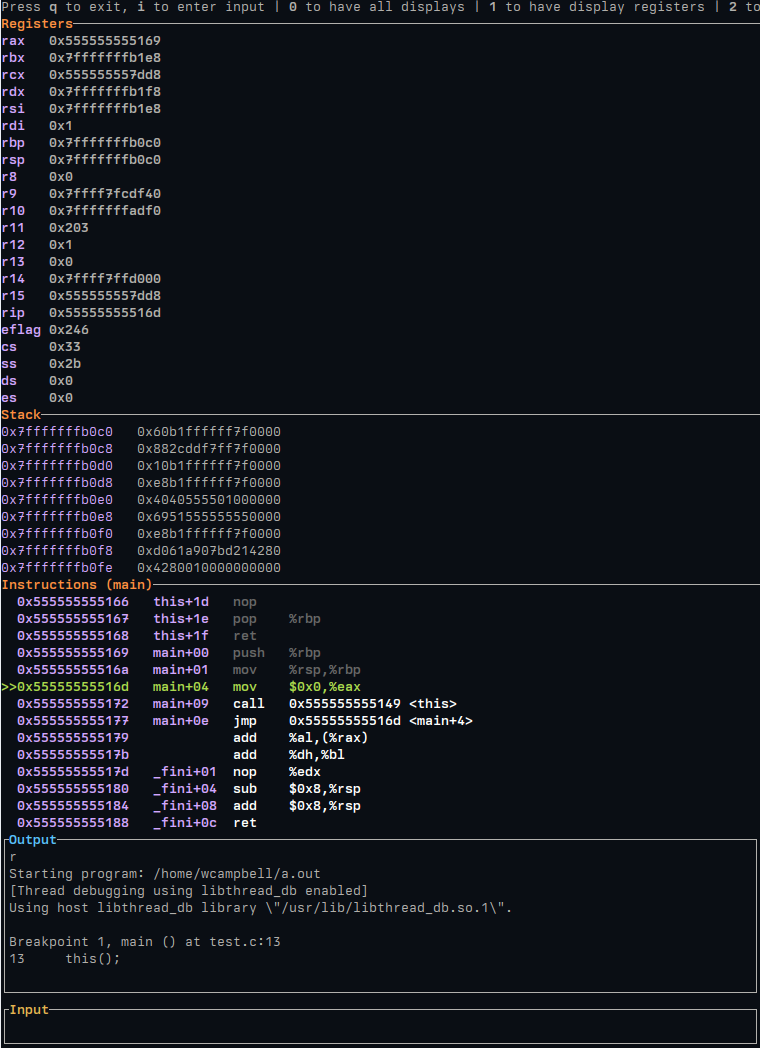
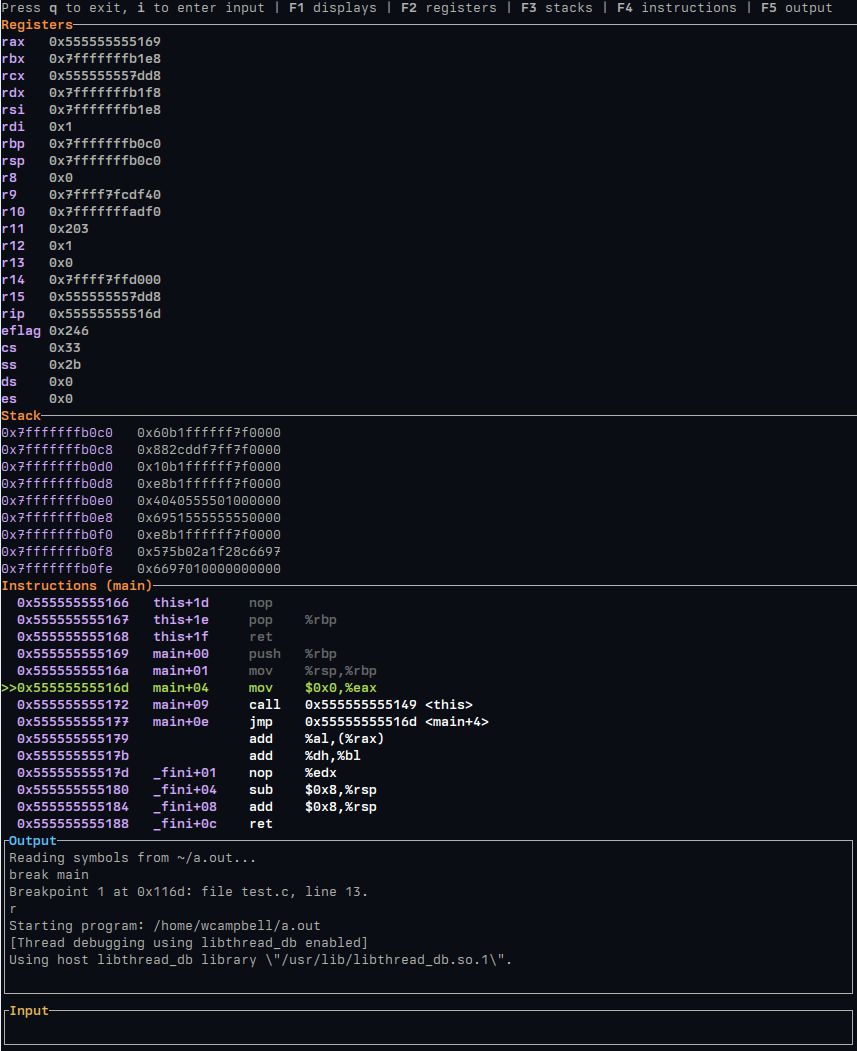
Output Improvements
* Add output page, all output is now cached
* cleanup tabs, now they use functions keys and smaller description text

diff --git a/src/main.rs b/src/main.rs
@@ -12,7 +12,6 @@ use env_logger::{Builder, Env};
 use log::debug;
 use ratatui::layout::{Constraint, Layout};
 use ratatui::prelude::*;
-use ratatui::style::Styled;
 use ratatui::widgets::block::Title;
 use ratatui::widgets::{Cell, Row, Table, TableState};
 use ratatui::{
@@ -25,13 +24,13 @@ use ratatui::{
 };
 use tui_input::backend::crossterm::EventHandler;
 use tui_input::Input;
-use Constraint::{Fill, Length, Max, Min};
+use Constraint::{Fill, Length, Min};
 
 mod mi;
 use mi::{
-    data_disassemble, data_read_memory_bytes, data_read_sp_bytes, join_registers,
-    parse_asm_insns_values, parse_key_value_pairs, parse_register_names_values,
-    parse_register_values, read_pc_value, Asm, MIResponse, Register,
+    data_disassemble, data_read_sp_bytes, join_registers, parse_asm_insns_values,
+    parse_key_value_pairs, parse_register_names_values, parse_register_values, read_pc_value, Asm,
+    MIResponse, Register,
 };
 
 enum InputMode {
@@ -100,6 +99,7 @@ enum Mode {
     OnlyRegister,
     OnlyStack,
     OnlyInstructions,
+    OnlyOutput,
 }
 
 struct App {
@@ -108,7 +108,7 @@ struct App {
     input_mode: InputMode,
     messages: LimitedBuffer<String>,
     current_pc: Arc<Mutex<u64>>, // TODO: replace with AtomicU64?
-    output: Arc<Mutex<LimitedBuffer<String>>>,
+    output: Arc<Mutex<Vec<String>>>,
     gdb_stdin: Arc<Mutex<dyn Write + Send>>,
     register_names: Arc<Mutex<Vec<String>>>,
     registers: Arc<Mutex<Vec<(String, Option<Register>)>>>,
@@ -161,7 +161,7 @@ impl App {
             input_mode: InputMode::Normal,
             messages: LimitedBuffer::new(10),
             current_pc: Arc::new(Mutex::new(0)),
-            output: Arc::new(Mutex::new(LimitedBuffer::new(SAVED_OUTPUT - 3))),
+            output: Arc::new(Mutex::new(Vec::new())),
             register_names: Arc::new(Mutex::new(vec![])),
             gdb_stdin,
             registers: Arc::new(Mutex::new(vec![])),
@@ -244,7 +244,7 @@ fn gdb_interact(
     stack_arc: Arc<Mutex<HashMap<u64, u64>>>,
     asm_arc: Arc<Mutex<Vec<Asm>>>,
     gdb_stdin_arc: Arc<Mutex<dyn Write + Send>>,
-    output_arc: Arc<Mutex<LimitedBuffer<String>>>,
+    output_arc: Arc<Mutex<Vec<String>>>,
 ) {
     let mut next_write = vec![String::new()];
     for line in gdb_stdout.lines() {
@@ -382,17 +382,20 @@ fn run_app<B: Backend>(terminal: &mut Terminal<B>, app: &mut App) -> io::Result<
                     (InputMode::Normal, KeyCode::Char('q')) => {
                         return Ok(());
                     }
-                    (InputMode::Normal, KeyCode::Char('0')) => {
+                    (InputMode::Normal, KeyCode::F(1)) => {
                         app.mode = Mode::All;
                     }
-                    (InputMode::Normal, KeyCode::Char('1')) => {
+                    (InputMode::Normal, KeyCode::F(2)) => {
                         app.mode = Mode::OnlyRegister;
                     }
-                    (InputMode::Normal, KeyCode::Char('2')) => {
+                    (InputMode::Normal, KeyCode::F(3)) => {
                         app.mode = Mode::OnlyStack;
                     }
-                    (InputMode::Normal, KeyCode::Char('3')) => {
+                    (InputMode::Normal, KeyCode::F(4)) => {
                         app.mode = Mode::OnlyInstructions;
+                    }
+                    (InputMode::Normal, KeyCode::F(5)) => {
+                        app.mode = Mode::OnlyOutput;
                     }
                     (InputMode::Editing, KeyCode::Esc) => {
                         app.input_mode = InputMode::Normal;
@@ -475,6 +478,20 @@ fn update_from_previous_input(app: &mut App) {
 fn ui(f: &mut Frame, app: &App) {
     // TODO: register size should depend on arch
     let top_size = Fill(1);
+
+    // If only output, then no top and fill all with output
+    if let Mode::OnlyOutput = app.mode {
+        let output_size = Fill(1);
+        let vertical = Layout::vertical([Length(1), output_size, Length(3)]);
+        let [title_area, output, input] = vertical.areas(f.area());
+
+        draw_title_area(app, f, title_area);
+        draw_output(app, f, output);
+        draw_input(title_area, app, f, input);
+        return;
+    }
+
+    // the rest will include the top
     let output_size = Length(SAVED_OUTPUT as u16);
 
     let vertical = Layout::vertical([Length(1), top_size, output_size, Length(3)]);
@@ -511,6 +528,7 @@ fn ui(f: &mut Frame, app: &App) {
             let [all] = vertical.areas(top);
             draw_asm(app, f, all);
         }
+        _ => (),
     }
 }
 
@@ -551,15 +569,20 @@ fn draw_input(title_area: Rect, app: &App, f: &mut Frame, input: Rect) {
 
 fn draw_output(app: &App, f: &mut Frame, output: Rect) {
     let output_lock = app.output.lock().unwrap();
-    let messages: Vec<ListItem> = output_lock
-        .buffer
+
+    let len = output_lock.len();
+    let max = output.height;
+    let output_buf =
+        if len <= max as usize { &output_lock[..] } else { &output_lock[len - max as usize..] };
+
+    let outputs: Vec<ListItem> = output_buf
         .iter()
         .map(|m| {
             let content = vec![Line::from(Span::raw(format!("{}", m)))];
             ListItem::new(content)
         })
         .collect();
-    let output_block = List::new(messages).block(
+    let output_block = List::new(outputs).block(
         Block::default()
             .borders(Borders::ALL)
             .title("Output".fg(BLUE).add_modifier(Modifier::BOLD)),
@@ -645,14 +668,16 @@ fn draw_title_area(app: &App, f: &mut Frame, title_area: Rect) {
                 Span::raw(" to exit, "),
                 Span::styled("i", Style::default().add_modifier(Modifier::BOLD)),
                 Span::raw(" to enter input | "),
-                Span::styled("0", Style::default().add_modifier(Modifier::BOLD)),
-                Span::raw(" to have all displays | "),
-                Span::styled("1", Style::default().add_modifier(Modifier::BOLD)),
-                Span::raw(" to have display registers | "),
-                Span::styled("2", Style::default().add_modifier(Modifier::BOLD)),
-                Span::raw(" to have display stacks | "),
-                Span::styled("3", Style::default().add_modifier(Modifier::BOLD)),
-                Span::raw(" to have display instructions"),
+                Span::styled("F1", Style::default().add_modifier(Modifier::BOLD)),
+                Span::raw(" displays | "),
+                Span::styled("F2", Style::default().add_modifier(Modifier::BOLD)),
+                Span::raw(" registers | "),
+                Span::styled("F3", Style::default().add_modifier(Modifier::BOLD)),
+                Span::raw(" stacks | "),
+                Span::styled("F4", Style::default().add_modifier(Modifier::BOLD)),
+                Span::raw(" instructions | "),
+                Span::styled("F5", Style::default().add_modifier(Modifier::BOLD)),
+                Span::raw(" output"),
             ],
             Style::default().add_modifier(Modifier::RAPID_BLINK),
         ),
